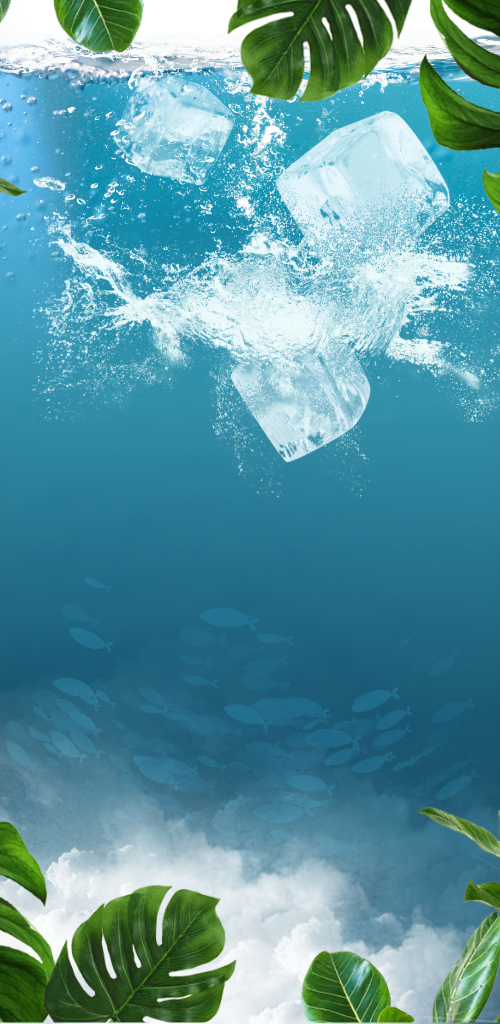
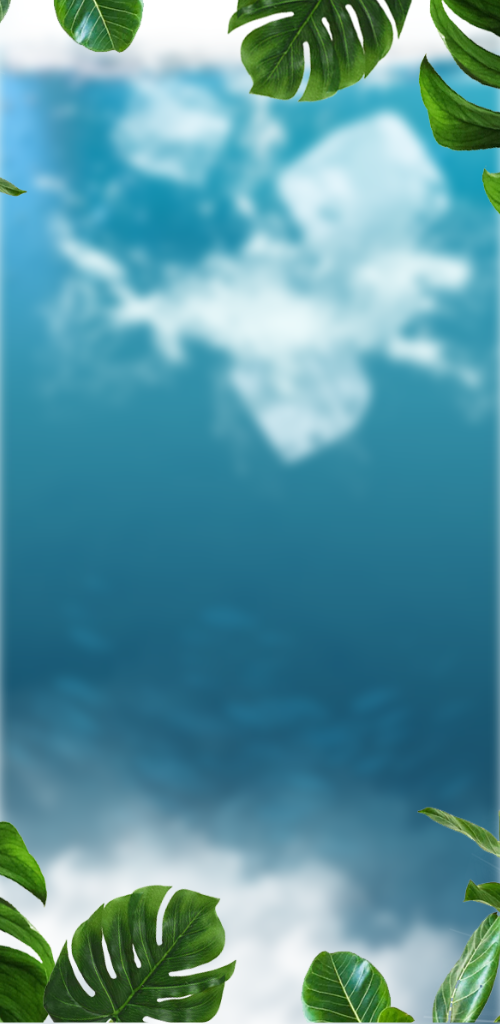
Update background of order screen

diff --git a/src/js/code.js b/src/js/code.js
@@ -216,16 +216,9 @@ function hidePopup(){
 function returnToBoard(){
     var orderScreen = byID("order-screen");
     var mainScreen = byID("main-screen");
-    var popupBackground = byID("popup-background");
-    var popupBottomBackground = byID("popup-bottom-background");
-
+    
     orderScreen.className = "order-screen";
     mainScreen.style.filter = "none";
-
-    setTimeout(function(){ 
-        popupBackground.className = "order-screen-background";
-        popupBottomBackground.className = "order-screen-background-bottom";
-    },60)
 }
 
 function userConfirm(){
@@ -234,8 +227,6 @@ function userConfirm(){
     let block = byID("block-wrapper-"+selectingBlockIndex);
     var orderScreen = byID("order-screen");
     var mainScreen = byID("main-screen");
-    var popupBackground = byID("popup-background");
-    var popupBottomBackground = byID("popup-bottom-background");
 
     if(playTimes > -1){
         if(playTimes == 0) {
@@ -247,10 +238,6 @@ function userConfirm(){
         confirmPopup.className = "popup";
         orderScreen.className += " show";
         mainScreen.style.filter = "blur(5px)";
-        setTimeout(function(){
-            popupBackground.className += " show";
-            popupBottomBackground.className += " show";
-        },100);
         // window.location.href = " http://m.me/lupucoffee";
     }
 }

diff --git a/src/css/main.css b/src/css/main.css
@@ -118,7 +118,7 @@ body{
 
 .app-container, .app-container > .wrapper{
     align-items: center;
-    background: #FF7600;
+    background: #c8eea4;
     background-image: url('../../src/images/optimized/tinified/background.png');
     background-position: bottom;
     background-size: contain;
